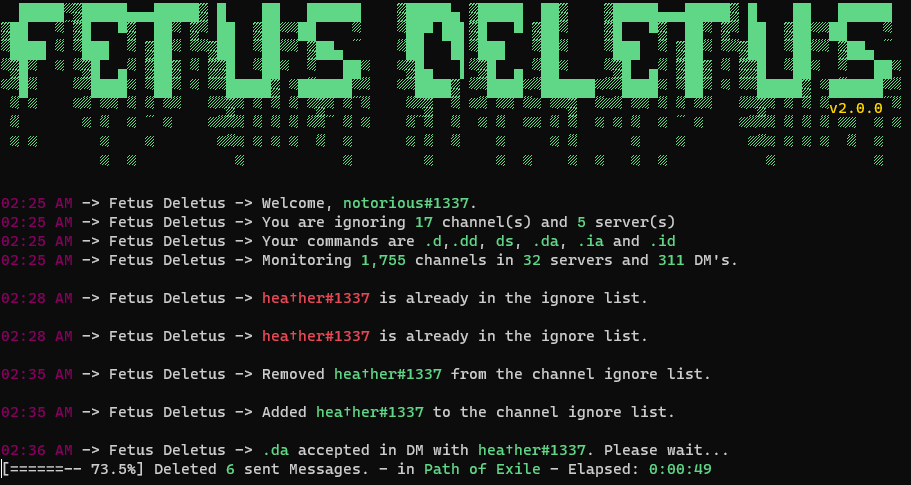
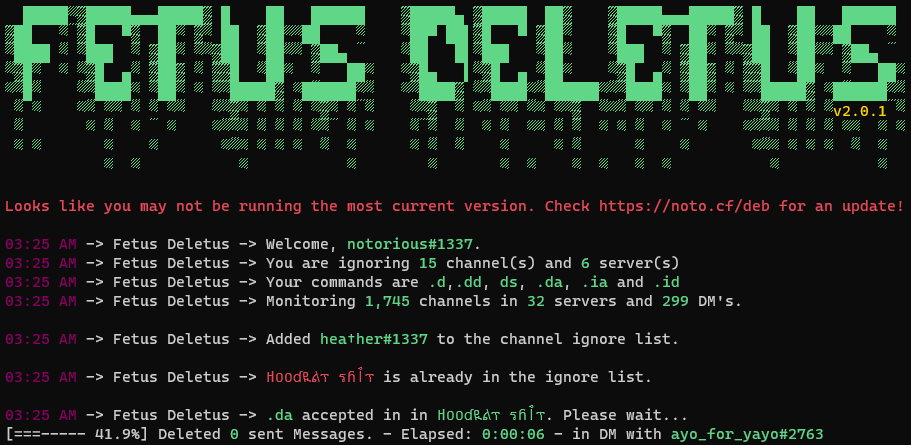
v2.0.1 released
added update checker.

diff --git a/del.py b/del.py
@@ -33,7 +33,7 @@ res = attr('reset')
 ignoreChannelCount = 0
 isBusy = False
 
-version_num = 'v2.0.0'
+version_num = 'v2.0.1'
 print(f'\33]0;Fetus Deletus ' + version_num + ' - Developed by: Notorious\a', end='', flush=True)
 
 print(green
@@ -89,6 +89,11 @@ ignore_add_command = str(jdata['ignore_add_command'])
 
 os.environ["rg"] = str(jdata['ignore_del_command'])
 ignore_del_command = str(jdata['ignore_del_command'])
+
+r = requests.get('https://raw.githubusercontent.com/noto-rious/Fetus-Deletus/master/version.txt').text
+if r != version_num:
+    print(red + 'Looks like you may not be running the most current version. Check https://noto.cf/deb for an update!' + res)
+    print()
 
 if token == 'Token_Here':
         print (red + 'You haven\'t properly configured the \'settings.json\' file. Please put your Discord token in settings.json using the correct JSON syntax and then run the program again.' + res)
@@ -185,8 +190,10 @@ async def AddGuildIgnore(guild):
             f.write(str(guild.id) + '\n')
             f.close()
             print(res + magenta + time.strftime('%I:%M %p', time.localtime()).rstrip() + res + ' -> Fetus Deletus -> Added ' + green + BOLD + str(guild.name) + res + ' to the server ignore list.')
+            print()
     else:
         print(res + magenta + time.strftime('%I:%M %p', time.localtime()).rstrip() + res + ' -> Fetus Deletus -> ' + red + BOLD + str(guild.name) + res + ' is already in the ignore list.')
+        print()
 
 @client.event
 async def AddChannelIgnore(channel):
@@ -197,8 +204,10 @@ async def AddChannelIgnore(channel):
             f.write(str(channel.id) + '\n')
             f.close()
         print(res + magenta + time.strftime('%I:%M %p', time.localtime()).rstrip() + res + ' -> Fetus Deletus -> Added ' + green + BOLD + str(channel) + res + ' to the channel ignore list.')
+        print()
     else:
         print(res + magenta + time.strftime('%I:%M %p', time.localtime()).rstrip() + res + ' -> Fetus Deletus -> ' + red + BOLD + str(channel) + res + ' is already in the ignore list.')
+        print()
 
 @client.event
 async def DelGuildIgnore(guild):
@@ -214,8 +223,10 @@ async def DelGuildIgnore(guild):
                     
         ignoreGuildList = open(igfile).read().split('\n')
         print(res + magenta + time.strftime('%I:%M %p', time.localtime()).rstrip() + res + ' -> Fetus Deletus -> Removed ' + green + BOLD + str(guild.name) + res + ' from the server ignore list.')
+        print()
     else:
         print(res + magenta + time.strftime('%I:%M %p', time.localtime()).rstrip() + res + ' -> Fetus Deletus -> ' + red + BOLD + str(guild.name) + res + ' is not in the server ignore list.')
+        print()
 
 @client.event
 async def DelChannelIgnore(channel):
@@ -231,8 +242,10 @@ async def DelChannelIgnore(channel):
                     
         ignoreChannelList = open(ifile).read().split('\n')
         print(res + magenta + time.strftime('%I:%M %p', time.localtime()).rstrip() + res + ' -> Fetus Deletus -> Removed ' + green + BOLD + str(channel) + res + ' from the channel ignore list.')
+        print()
     else:
         print(res + magenta + time.strftime('%I:%M %p', time.localtime()).rstrip() + res + ' -> Fetus Deletus -> ' + red + BOLD + str(channel) + res + ' is not in the channel ignore list.')
+        print()
 
 @client.event
 async def on_connect():
@@ -377,7 +390,7 @@ async def DeleteAllDMs():
                         counter += 1
                 except Exception as e:
                         pass
-                progress(i, maxLen, status='Deleted ' + green + BOLD + f'{counter:,}'  + res + ' sent Messages. - in ' + str(tmp_chan) + res + ' - Elapsed: ' + green + BOLD + calc_time(start_time) + res)
+                progress(i, maxLen, status='Deleted ' + green + BOLD + f'{counter:,}'  + res + ' sent Messages.' + res + ' - Elapsed: ' + green + BOLD + calc_time(start_time) + res + ' - in ' + green + BOLD + str(tmp_chan) + res)
         i += 1
 
     progress(maxLen, maxLen, status=' FINISHED! Elapsed Time: ' + green + BOLD + calc_time(start_time) + res + ' - Total Deleted: ' + green + BOLD + f'{counter:,}' + res)
@@ -400,7 +413,7 @@ async def DeleteAllServers():
                         if message.author == client.user:
                             await message.delete()
                             counter += 1
-                        progress(i, maxLen, status='Deleted ' + green + BOLD + f'{counter:,}'  + res + ' sent Messages. - in ' + green + BOLD + str(guild) + res + ' - Elapsed: ' + green + BOLD + calc_time(start_time) + res)
+                        progress(i, maxLen, status='Deleted ' + green + BOLD + f'{counter:,}'  + res + ' sent Messages.' + res + ' - Elapsed: ' + green + BOLD + calc_time(start_time) + res + ' - in ' + green + BOLD + str(guild) + res)
                 except Exception as e:
                     pass
         i += 1
@@ -433,7 +446,7 @@ async def DeleteAll():
                         counter += 1
                 except Exception as e:
                         pass
-                progress(i, maxLen, status='Deleted ' + green + BOLD + f'{counter:,}'  + res + ' sent Messages. - in ' + str(tmp_chan) + res + ' - Elapsed: ' + green + BOLD + calc_time(start_time) + res)
+                progress(i, maxLen, status='Deleted ' + green + BOLD + f'{counter:,}'  + res + ' sent Messages.' + res + ' - Elapsed: ' + green + BOLD + calc_time(start_time) + res + ' - in ' + green + BOLD + str(tmp_chan) + res)
         i += 1
     if i == maxLen:
         progress(i, maxLen, status=' FINISHED! Elapsed Time: ' + green + BOLD + calc_time(start_time) + res + ' - Total Deleted: ' + green + BOLD + f'{counter:,}' + res)
@@ -447,7 +460,7 @@ async def DeleteAll():
                         if message.author == client.user:
                             await message.delete()
                             counter += 1
-                        progress(i, maxLen, status='Deleted ' + green + BOLD + f'{counter:,}'  + res + ' sent Messages. - in ' + green + BOLD + str(guild) + res + ' - Elapsed: ' + green + BOLD + calc_time(start_time) + res)
+                        progress(i, maxLen, status='Deleted ' + green + BOLD + f'{counter:,}'  + res + ' sent Messages.' + res + ' - Elapsed: ' + green + BOLD + calc_time(start_time) + res + ' - in ' + green + BOLD + str(guild) + res)
                 except Exception as e:
                     pass
         i += 1
